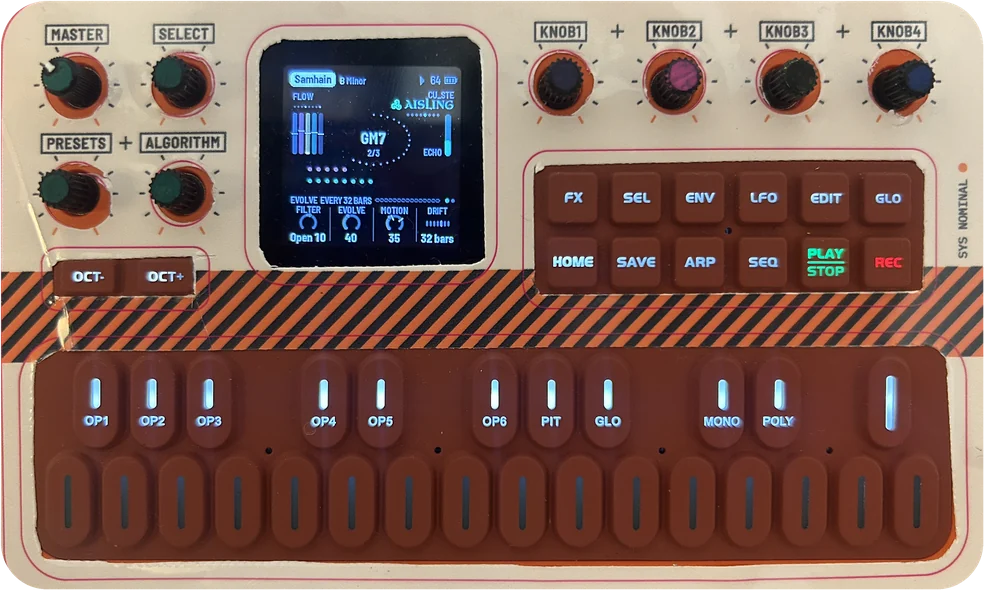
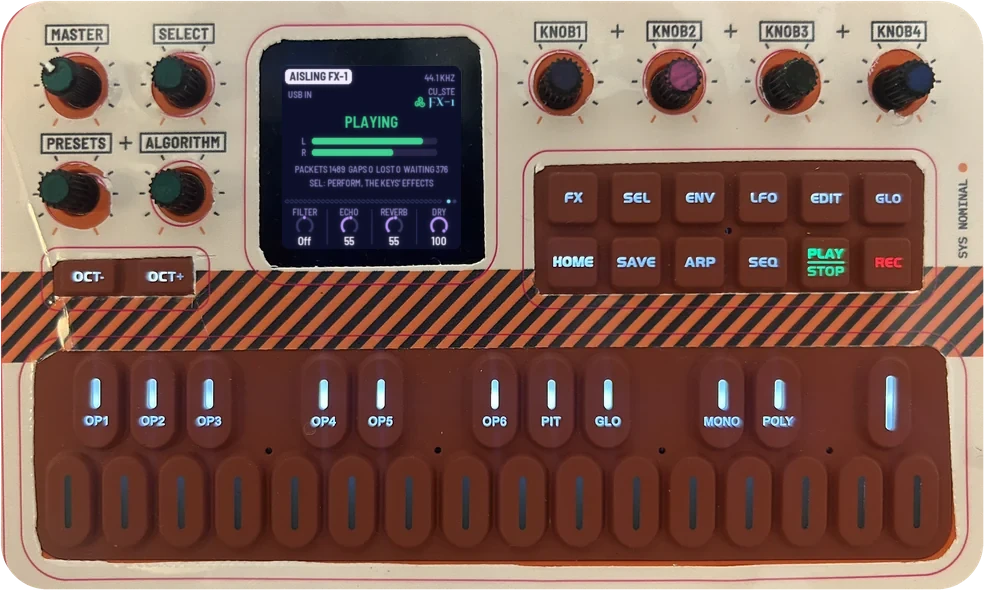
FX-1's photo shows FX-1's screen; the Elite's pages are only the site's
The photo of the skinned FM-1 was taken with AISLING on it. Its display now has
FX-1's own screen (docs/img/fx1-screen.png) set into it. The copy of the Elite's
pages on github.io is retired, so a build without them points at the site.

Claude-Session: https://claude.ai/code/session_01T5obJLGpxqm4RGcUwvyqqe

Changed region(s): [[0.2744, 0.0915, 0.4878, 0.4271]]

diff --git a/tools/make_pages.py b/tools/make_pages.py
@@ -980,7 +980,7 @@ def flows():
     return page
 
 
-SMK37_AWAY = "https://stephencummins.github.io/smk37-aisling/"   # where its pages are published on their own
+SMK37_AWAY = "https://aisling.stephen8n.com/smk37/"   # where its pages are, for a build made without them (github.io's copy is retired)
 
 
 def drawing(path, alt=None):
